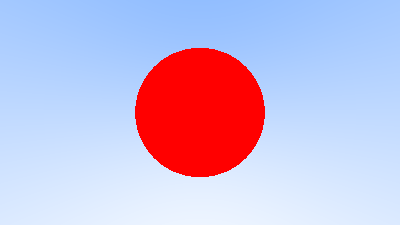
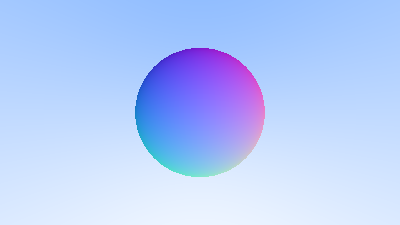
sphere normals

Changed region(s): [[0.33, 0.1867, 0.66, 0.8089]]

diff --git a/04/main.cpp b/04/main.cpp
@@ -10,27 +10,42 @@
 
 #define FILE_NAME "out.png"
 
-bool hit_sphere(const Point3 &center, double radius, const Ray &r) {
+/**
+* If hitpoint exists
+* will return the distance to the sphere
+* else
+* will return -1
+*/
+double hit_sphere(const Point3 &center, double radius, const Ray &r) {
   // from origin to center
   Vec3 oc = r.origin() - center;
-  auto a = dot(r.direction(), r.direction());
-  auto b = 2.0 * dot(oc, r.direction());
-  auto c = dot(oc, oc) - radius*radius;
-  auto discriminant = b * b - 4 * a * c;
+  auto a = r.direction().length_squared();
+  auto half_b = dot(oc, r.direction());
+  auto c = oc.length_squared() - radius * radius;
+  auto discriminant = half_b * half_b - a * c;
   // the discriminant is all that is needed. If a solution exists
   // (discriminant == 0) then we have a single solution, the ray grazes the sphere
   // (discriminant > 0) then we two solution and the ray entered the sphere
-  return (discriminant > 0);
+  if (discriminant < 0) {
+    return -1.0;
+  }
+  // some simplification of the quadratic formula
+  return (-half_b - sqrt(discriminant)) / a;
 }
 
 Color ray_color(const Ray &r) {
+  auto t = hit_sphere(Point3(0, 0, -1), 0.5, r);
   // sphere location placed at z = -1 right in front of the camera
-  if (hit_sphere(Point3(0, 0, -1), 0.5, r)) {
-    return Color(1, 0, 0);
+  if (t > 0.0) {
+    // normal vector
+    Vec3 N = unit_vector(r.at(t) - Vec3(0, 0, -1));
+    // to avoid negative colors
+    return 0.5 * Color(N.x() + 1, N.y() + 1, N.z() + 1);
   }
+  // Didn't hit anything so this is empty air
   Vec3 unit_direction = unit_vector(r.direction());
   // t is arbitrarily set as a single step of the y direction
-  auto t = 0.5 * (unit_direction.y() + 1.0);
+  t = 0.5 * (unit_direction.y() + 1.0);
   // As time continues the ray loses color.
   return (t) * Color(1.0, 1.0, 1.0) + (1.0 - t) * Color(0.5, 0.7, 1.0);
 }
